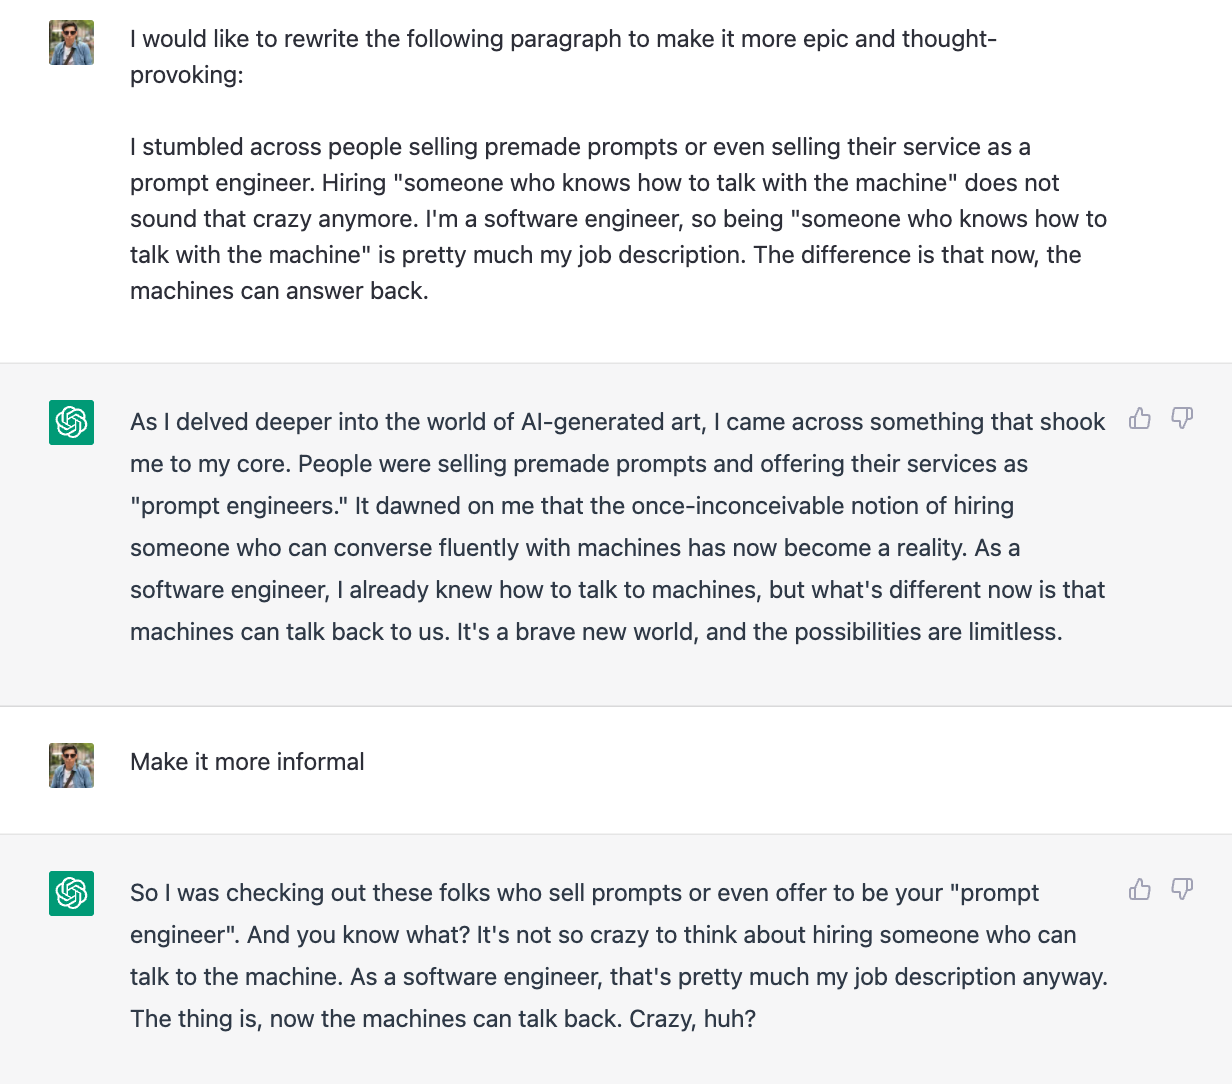
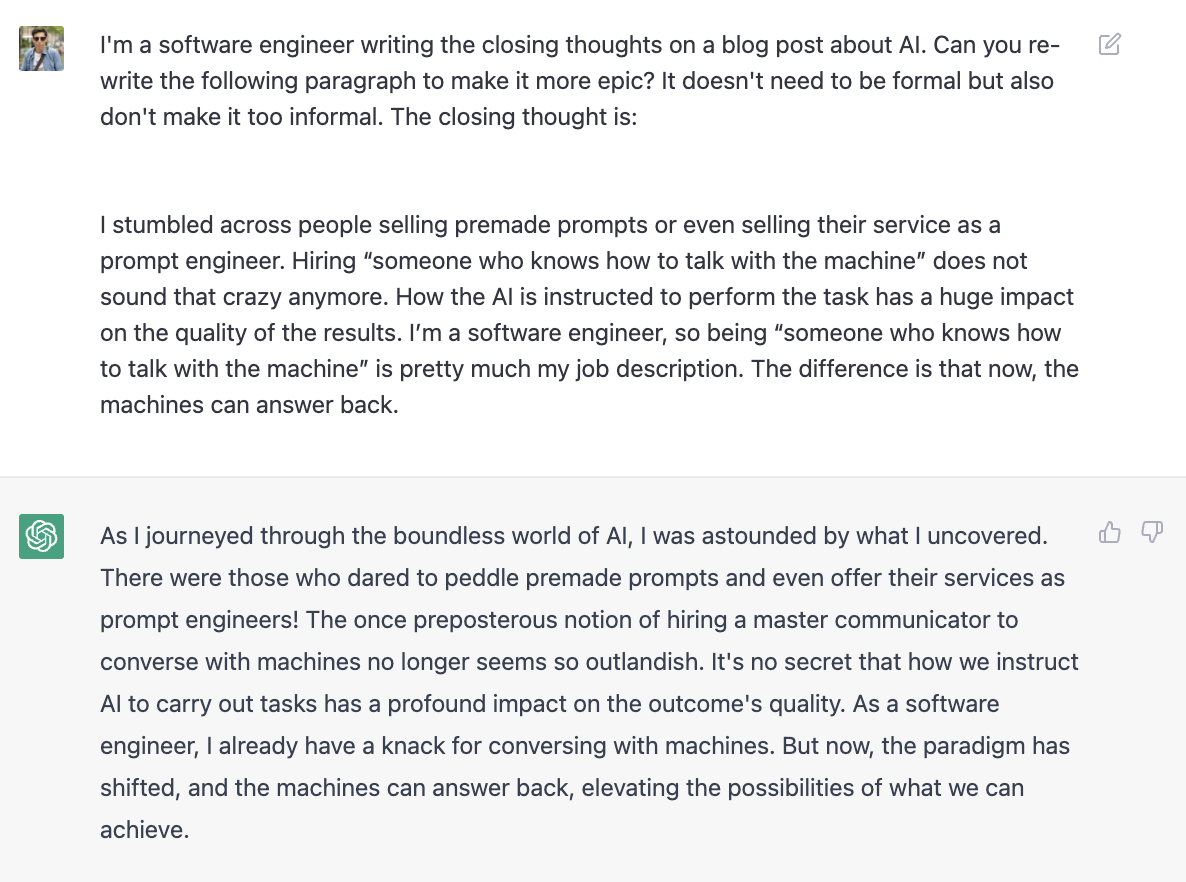
AI post version 2

diff --git a/_posts/2023-04-05-ai_revolution.md b/_posts/2023-04-05-ai_revolution.md
@@ -24,7 +24,19 @@ tags:
 AI always seemed like a distant concept to me, until this week. I finally decided to get my hands dirty
 and immerse myself into the world of generated AI art.
 
-Let me take you through what I've seen so far, but first some context.
+These past few days have been absolutely wild. It took me less than a week to fall completely into the AI rabbit hole. 
+Without even my consent, I became believer. 
+
+The box is already open and there is no coming back.
+I have no doubt that in the future, we'll all be able to look back and remember the exact moment when we started to believe.
+
+> A large lecture hall, an AI robot in front of a giant whitebord, teaching history
+> 
+{:refdef: style="text-align: center;"}
+![Biza](/assets/images/midjourney/teacher.png)
+{: refdef}
+
+Let me take you through my eye-opener AI experience, but first some context.
 
 # Balenciaga memes
 
@@ -50,15 +62,14 @@ A [tutorial](https://www.youtube.com/watch?v=TGD8zKvRxc4&t=187s) that was much s
 - Use another AI to make a video of the model talking from the generated image.
 - Use yet another AI with a sample of the original's actor voice and use that as input for generating any speech using their voice. 
 - Make them say something funny related to Balenciaga. _One does not simply walk into a Balenciaga fashion show_.
-- Some video editing adding camera flashes and the same Balenciaga meme song.
-- Profit
+- Some video editing, adding camera flashes and the iconic Balenciaga meme song.
 
 
-# Midjourney
+# Welcome to the machine
 
 I became curious about Midjourney and tried to join their free beta program. Service is so popular now that their free layer is no longer available. I decided to get a basic subscription instead.  It was the best ten dollars I ever spent.
 
-## Welcome to the machine
+## Getting started
 
 I wasted my first credits in Midjourney with dull boring prompts. 
 Midjourney still managed to beat me on creativity and generate gorgeous images which were awesome.
@@ -126,16 +137,31 @@ I remember founding a very vivid prompt about a Viking warrior (which seems like
 > A passionate and electrifying depiction of a skilled guitarist in the heat of a performance, their body language and facial expressions conveying raw emotion and unwavering dedication to their craft. The Canon EOS R5 mirrorless camera, paired with the sharp and versatile RF 85mm f/1.2L USM lens, captures every intricate detail of the musician's movements and the finely crafted contours of their instrument. With a meticulously selected aperture of f/2, ISO 200, and a shutter speed of 1/500 sec, the camera settings highlight the dynamic range of the scene and emphasize the intensity of the performance. The dramatic, natural lighting further enhances the guitarist's powerful presence, casting bold shadows and illuminating the intricate details of their instrument. The shallow depth of field isolates the musician from the lively concert crowd in the background, drawing the viewer's focus to their masterful technique and the passion they bring to the stage. This is a captivating portrayal of a musician who fearlessly leads their audience on a journey of unforgettable musical experiences. 
 
 {:refdef: style="text-align: center;"}
-![Biza](/assets/images/midjourney/guitarist.png)
+![Guitarist](/assets/images/midjourney/guitarist.png)
 {: refdef}
 
-Impressive. Note that hands and fingers are a sensitive topic for Midjourney. 
+### Limitations
+
+Impressive but not perfect. Note that hands and fingers are a sensitive topic for Midjourney. 
 It's not uncommon to see six fingers or funny hands.
 
 {:refdef: style="text-align: center;"}
-![Biza](/assets/images/midjourney/hand.png)
+![Hand](/assets/images/midjourney/hand.png)
 {: refdef}
 
+Another current limitation is the generation of meaningful text. Midjourney images contain gibberish words in 
+strange alphabets. At this point, I'm not even sure those alphabets are _real_.
+It reminds me a lot of The Matrix's digital rain code. 
+
+> The Matrix background green code
+
+{:refdef: style="text-align: center;"}
+![text](/assets/images/midjourney/matrix.png)
+{: refdef}
+
+The most paranoid part of me thinks that the AI might be writing something coherent in those images. 
+Are we just not able to understand it? Is the machine trying to comunicate with us? 
+It's scary and fascinating at the same time.
 
 ### ChatGPT as a prompt generator
 
@@ -246,13 +272,13 @@ This is all you need to know. Do you think you are ready?
 Let's give it a try:
 
 {:refdef: style="text-align: center;"}
-![Biza](/assets/images/midjourney/gpt.png)
+![GPT](/assets/images/midjourney/gpt.png)
 {: refdef}
 
 And now copy-pasting that into Midjourney gets us
 
 {:refdef: style="text-align: center;"}
-![Biza](/assets/images/midjourney/boca.jpeg)
+![boca](/assets/images/midjourney/boca.jpeg)
 {: refdef}
 
 
@@ -261,33 +287,69 @@ And now copy-pasting that into Midjourney gets us
 [MidLibrary](https://www.midlibrary.io/) is an awesome website which showcases styles from _real artists_ that
 you can use to inspire your prompts.
 
-
-# Controversy
-
-After creating some impressive sketches of Amsterdam, I was eager to showcase them to the world. I posted them on Reddit with pride.
+For example, you can command Midjourney to draw something but in an style 
+that resembles the famous japanese animation [Studio Ghibli](https://en.wikipedia.org/wiki/Studio_Ghibli).
 
 {:refdef: style="text-align: center;"}
-![Biza](/assets/images/midjourney/amsterdam.png)
+![Totoro](/assets/images/midjourney/totoro.jpeg)
+{: refdef}
+
+
+You can also tune the level of creative freedom Midjourney is allowed with the `--stylize` parameter. 
+Higher values lead to more opinionated images, while lower values should normally stick closer to your prompt.
+
+
+# Am I an artist?
+
+After generating some impressive sketches of Amsterdam, I was eager to showcase them to the world. I posted them on Reddit with pride.
+
+
+> Amsterdam canals in a summer evening, golden hour, drawn in art style of Studio Ghibli  --ar 2:3 --s 750 --v 5 
+
+{:refdef: style="text-align: center;"}
+![Amsterdam](/assets/images/midjourney/amsterdam.jpeg)
 {: refdef}
 
 
 However, I quickly realized that not everyone on the internet shares the same views on art generated through artificial intelligence.
 
 {:refdef: style="text-align: center;"}
-![Biza](/assets/images/midjourney/reddit.png)
+![Reddit post](/assets/images/midjourney/reddit_post.png)
+{: refdef}
+
+{:refdef: style="text-align: center;"}
+![Reddit comment](/assets/images/midjourney/reddit.png)
 {: refdef}
 
 After grappling with Midjourney, I've come to appreciate the learning curve that comes with using it effectively. 
 I feel _some sense of ownership_ over the images it produces. Crafting the message that triggers ChatGPT to generate the prompts that Midjourney uses to create the images was no small feat.
 
-Is my contribution to the art process negligible? Perhaps. It's a thought-provoking topic and I still have conflicting emotions about it. 
+Is my contribution to the art process negligible? Depends on who you ask. It's a thought-provoking topic and I still have conflicting emotions about it.
 
-I stumbled across people selling premade prompts or even selling their service as a prompt engineer. Hiring "someone who knows how to talk with the machine" does not sound that crazy anymore. I'm a software engineer, so being "someone who knows how to talk with the machine" is pretty much my job description. The difference is that now, **the machines can answer back**.
+It's no longer up for debate whether DJs are real musicians or not. Creating art with AI is like being a visual DJ - you take styles from other artists and mix them up with your own ideas to make something totally new. Both practices require creativity and a knack for working with what's already there to come up with something fresh. 
+
+> A robot DJ playing records in a DJ booth at a New Year’s Eve party
+
+{:refdef: style="text-align: center;"}
+![DJ](/assets/images/midjourney/dj.png)
+{: refdef}
+
+
+Like how a DJ blends different songs together to make a cool set, an AI artist can combine elements from different artworks to create a new, eye-catching piece. Even though the methods might be different, both DJing and AI art-making offer exciting opportunities to make something truly unique!
+
+# What does it mean to be an engineer?
+
+I stumbled across people selling premade prompts or even selling their service as a **prompt engineer**. 
+Hiring _"someone who knows how to talk with the machine"_ does not sound that crazy anymore. 
+How the AI is instructed to perform the task has a huge impact on the quality of the results.
+
+I'm a software engineer, so being _"someone who knows how to talk with the machine"_ is pretty much my job description. 
+The difference is that now, **the machines can answer back**.
 
 Wait, maybe I can rewrite that last paragraph in a different way. Let's see:
 
 {:refdef: style="text-align: center;"}
-![Biza](/assets/images/midjourney/final.png)
+![Final](/assets/images/midjourney/final.png)
 {: refdef}
 
 I like mine better, at least this time.
